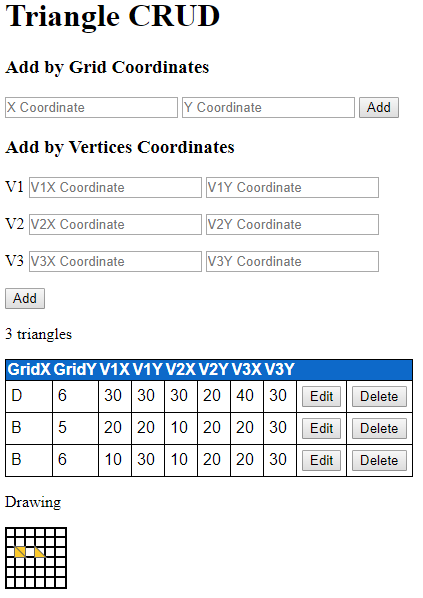
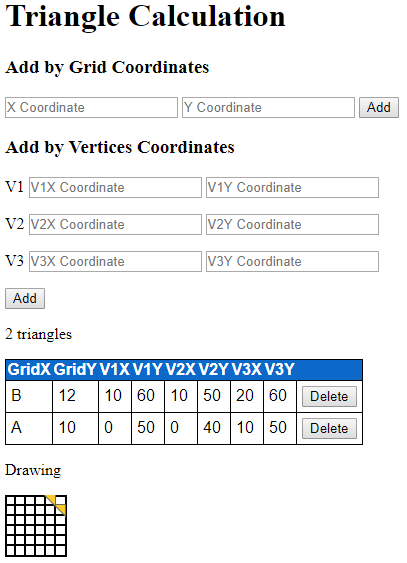
fixed canvas axis swap

diff --git a/CodingChallenge/wwwroot/site.js b/CodingChallenge/wwwroot/site.js
@@ -78,9 +78,9 @@ function getData() {
                 
                 // the triangle
                 context.beginPath();
-                context.moveTo(item.v1x, item.v1y);
-                context.lineTo(item.v2x, item.v2y);
-                context.lineTo(item.v3x, item.v3y);
+                context.moveTo(item.v1y, item.v1x);
+                context.lineTo(item.v2y, item.v2x);
+                context.lineTo(item.v3y, item.v3x);
                 context.closePath();
 
                 // the outline
